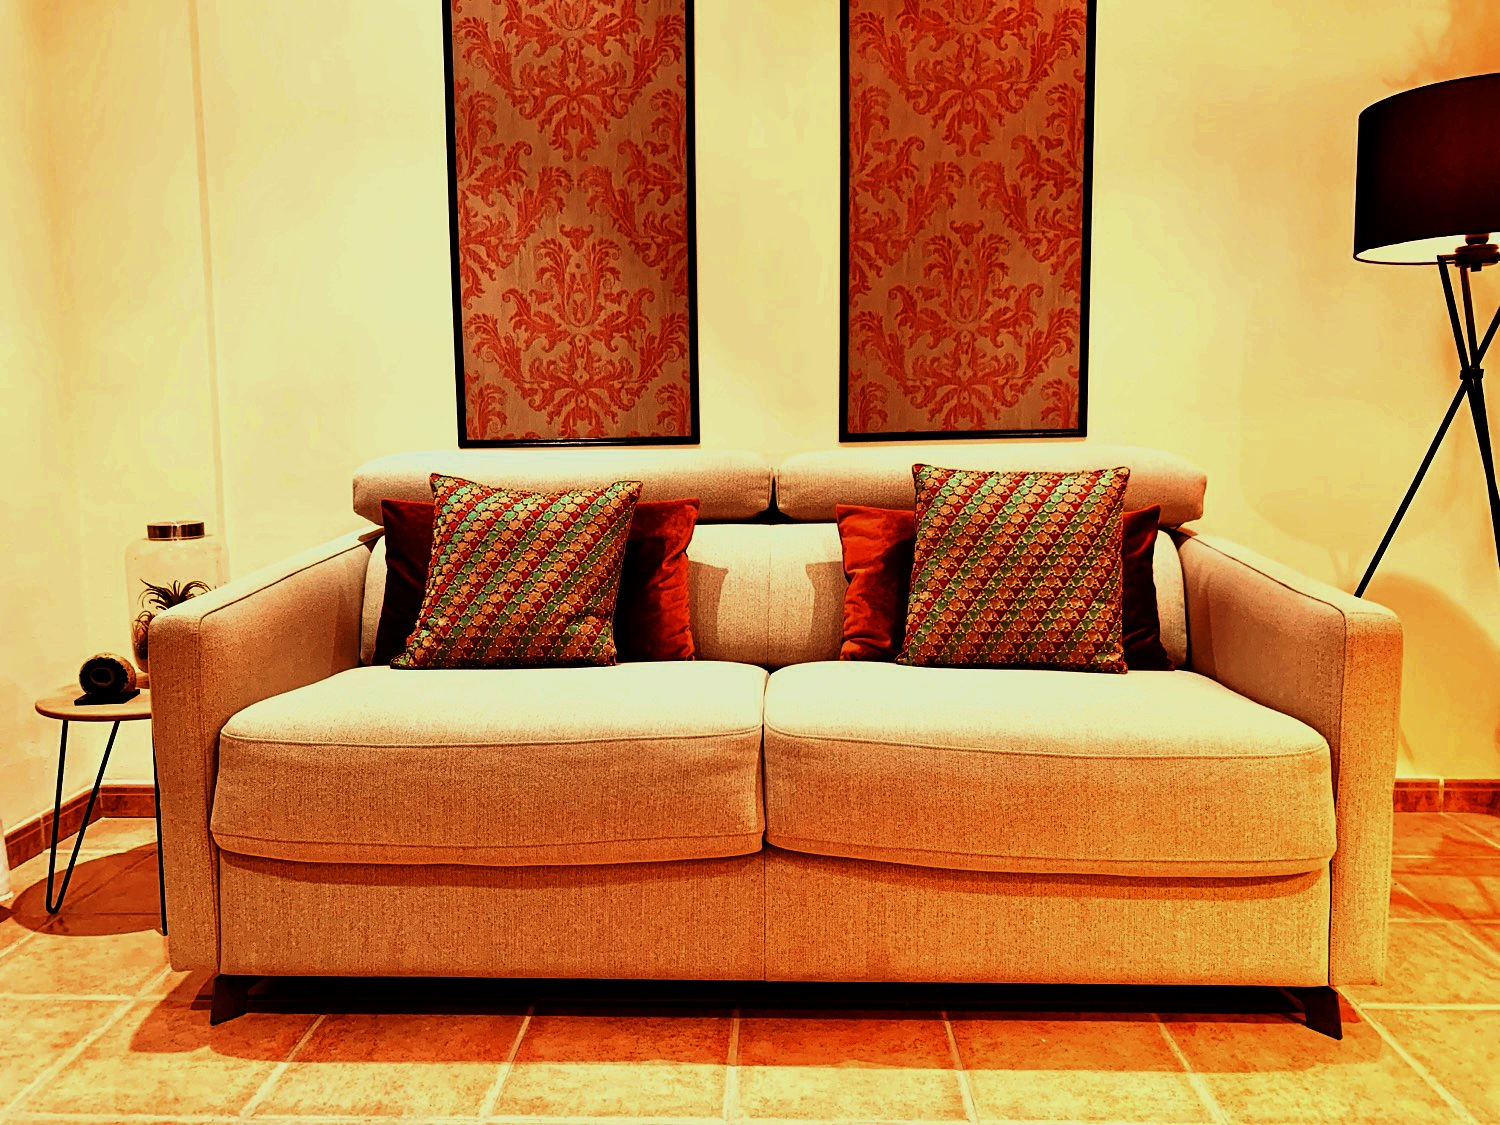
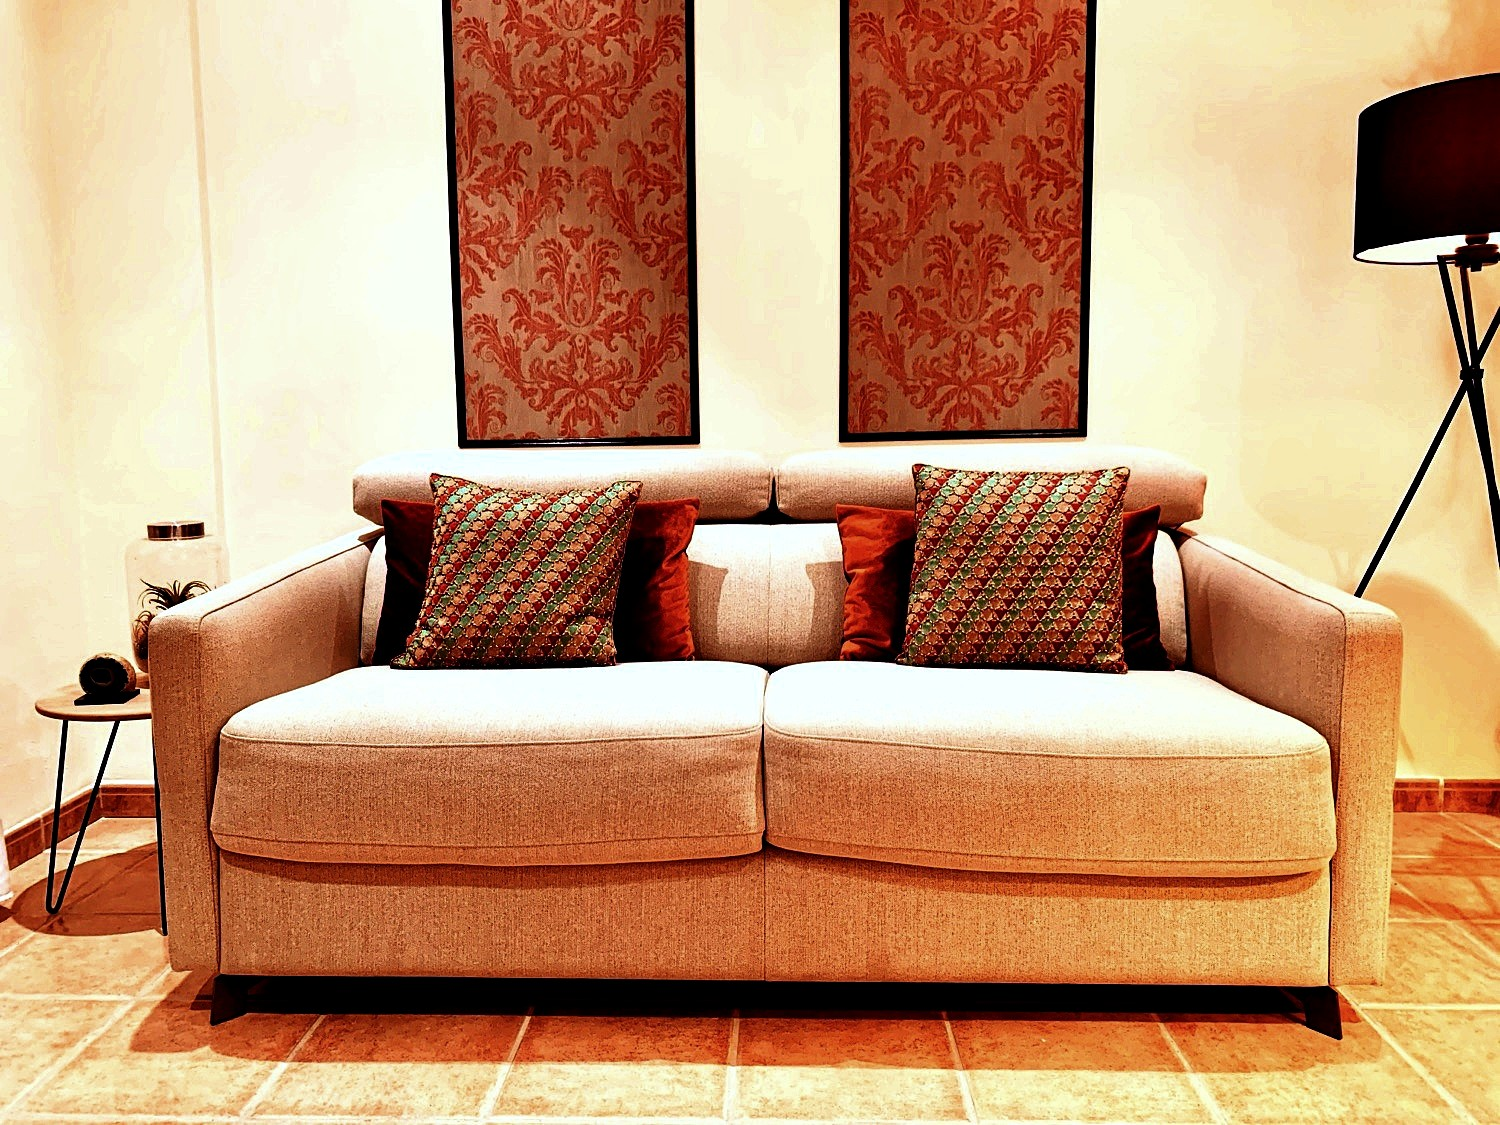
fix(thalassa): corrección de color de las 16 fotos del gallery
15 de 16 fotos VT venían con cast cálido (naranja/amarillo) MUY fuerte
de filtros HDR aplicados originalmente. Especialmente la #10 (sofá),
la #12 (cabeceros granate), #5 (salón atardecer), #6 (comedor) y #8
(entrada) eran casi anaranjadas — la palma blanca del sofá salía amber.

Aplicado pipeline en Python/Pillow:
  · Corrección suave (14 fotos): R-6%, G-3%, B+12% + autocontrast +
    sharpen + saturation -8%
  · Corrección agresiva (5 peores: 5,6,8,10,12): white balance basado
    en los píxeles más brillantes (highlights → blanco neutro) + R-4%
    + B+5% + autocontrast + saturation -22% + sharpen

Ahora:
  · Paredes blancas/crema (no naranja)
  · Sofás en color real (beige neutro, no amber)
  · Skin tones de paredes empedradas correctos
  · Vistas exteriores con cielo azul real

Backup de originales en docs/assets/originals/ (14 archivos, 6MB) por
si quieres restaurar alguna.

Limitación: NO se ha hecho outpainting (extender bordes con IA) —
para eso hace falta Photoshop Generative Expand o servicio externo.
El encuadre y dimensiones originales se preservan.

WebP regenerado con calidad 85.
Cache v=315

https://claude.ai/code/session_01EB1Ht2VQwEZbgWsiJbC8PY

diff --git a/docs/nosotros.html b/docs/nosotros.html
@@ -34,7 +34,7 @@
   <link rel="preconnect" href="https://fonts.gstatic.com" crossorigin/>
   <link rel="dns-prefetch" href="//unpkg.com"/>
   <link href="https://fonts.googleapis.com/css2?family=Inter:wght@300;400;500;600;700&family=Playfair+Display:ital,opsz,wght@0,5..1200,400..900;1,5..1200,400..900&display=swap" rel="stylesheet"/>
-  <link rel="stylesheet" href="assets/styles.css?v=314"/>
+  <link rel="stylesheet" href="assets/styles.css?v=315"/>
   <link rel="preload" as="image" href="assets/photo-nosotros-hero.jpg" fetchpriority="high"/>
   <script type="application/ld+json">
   {

diff --git a/docs/index.html b/docs/index.html
@@ -35,7 +35,7 @@
   <link rel="preconnect" href="https://fonts.gstatic.com" crossorigin/>
   <link rel="dns-prefetch" href="//unpkg.com"/>
   <link href="https://fonts.googleapis.com/css2?family=Inter:wght@300;400;500;600;700&family=Playfair+Display:ital,opsz,wght@0,5..1200,400..900;1,5..1200,400..900&display=swap" rel="stylesheet"/>
-  <link rel="stylesheet" href="assets/styles.css?v=314"/>
+  <link rel="stylesheet" href="assets/styles.css?v=315"/>
   <link rel="preload" as="image" href="assets/hero-terrace-night.jpg" fetchpriority="high"/>
   <script type="application/ld+json">
   {

diff --git a/docs/thalassa.html b/docs/thalassa.html
@@ -34,7 +34,7 @@
   <link rel="preconnect" href="https://fonts.gstatic.com" crossorigin/>
   <link rel="dns-prefetch" href="//unpkg.com"/>
   <link href="https://fonts.googleapis.com/css2?family=Inter:wght@300;400;500;600;700&family=Playfair+Display:ital,opsz,wght@0,5..1200,400..900;1,5..1200,400..900&display=swap" rel="stylesheet"/>
-  <link rel="stylesheet" href="assets/styles.css?v=314"/>
+  <link rel="stylesheet" href="assets/styles.css?v=315"/>
   <link rel="preload" as="image" href="assets/apt-vt-4.jpg" fetchpriority="high"/>
   <script type="application/ld+json">
   {

diff --git a/docs/mar.html b/docs/mar.html
@@ -34,7 +34,7 @@
   <link rel="preconnect" href="https://fonts.gstatic.com" crossorigin/>
   <link rel="dns-prefetch" href="//unpkg.com"/>
   <link href="https://fonts.googleapis.com/css2?family=Inter:wght@300;400;500;600;700&family=Playfair+Display:ital,opsz,wght@0,5..1200,400..900;1,5..1200,400..900&display=swap" rel="stylesheet"/>
-  <link rel="stylesheet" href="assets/styles.css?v=314"/>
+  <link rel="stylesheet" href="assets/styles.css?v=315"/>
   <link rel="preload" as="image" href="assets/apt-vm.jpg" fetchpriority="high"/>
   <script type="application/ld+json">
   {

diff --git a/docs/salinas.html b/docs/salinas.html
@@ -34,7 +34,7 @@
   <link rel="preconnect" href="https://fonts.gstatic.com" crossorigin/>
   <link rel="dns-prefetch" href="//unpkg.com"/>
   <link href="https://fonts.googleapis.com/css2?family=Inter:wght@300;400;500;600;700&family=Playfair+Display:ital,opsz,wght@0,5..1200,400..900;1,5..1200,400..900&display=swap" rel="stylesheet"/>
-  <link rel="stylesheet" href="assets/styles.css?v=314"/>
+  <link rel="stylesheet" href="assets/styles.css?v=315"/>
   <link rel="preload" as="image" href="assets/apt-vs.jpg" fetchpriority="high"/>
   <script type="application/ld+json">
   {

diff --git a/docs/escribir-opinion.html b/docs/escribir-opinion.html
@@ -32,7 +32,7 @@
   <link rel="preconnect" href="https://fonts.gstatic.com" crossorigin/>
   <link rel="dns-prefetch" href="//unpkg.com"/>
   <link href="https://fonts.googleapis.com/css2?family=Inter:wght@300;400;500;600;700&family=Playfair+Display:ital,opsz,wght@0,5..1200,400..900;1,5..1200,400..900&display=swap" rel="stylesheet"/>
-  <link rel="stylesheet" href="assets/styles.css?v=314"/>
+  <link rel="stylesheet" href="assets/styles.css?v=315"/>
 </head>
 <body>
 <a href="#root" class="skip-link">Saltar al contenido principal</a>

diff --git a/docs/noticias.html b/docs/noticias.html
@@ -34,7 +34,7 @@
   <link rel="preconnect" href="https://fonts.gstatic.com" crossorigin/>
   <link rel="dns-prefetch" href="//unpkg.com"/>
   <link href="https://fonts.googleapis.com/css2?family=Inter:wght@300;400;500;600;700&family=Playfair+Display:ital,opsz,wght@0,5..1200,400..900;1,5..1200,400..900&display=swap" rel="stylesheet"/>
-  <link rel="stylesheet" href="assets/styles.css?v=314"/>
+  <link rel="stylesheet" href="assets/styles.css?v=315"/>
   <script type="application/ld+json">
   {
     "@context": "https://schema.org",

diff --git a/docs/contacto.html b/docs/contacto.html
@@ -34,7 +34,7 @@
   <link rel="preconnect" href="https://fonts.gstatic.com" crossorigin/>
   <link rel="dns-prefetch" href="//unpkg.com"/>
   <link href="https://fonts.googleapis.com/css2?family=Inter:wght@300;400;500;600;700&family=Playfair+Display:ital,opsz,wght@0,5..1200,400..900;1,5..1200,400..900&display=swap" rel="stylesheet"/>
-  <link rel="stylesheet" href="assets/styles.css?v=314"/>
+  <link rel="stylesheet" href="assets/styles.css?v=315"/>
   <script type="application/ld+json">
   {
   "@context": "https://schema.org",

diff --git a/docs/opiniones.html b/docs/opiniones.html
@@ -34,7 +34,7 @@
   <link rel="preconnect" href="https://fonts.gstatic.com" crossorigin/>
   <link rel="dns-prefetch" href="//unpkg.com"/>
   <link href="https://fonts.googleapis.com/css2?family=Inter:wght@300;400;500;600;700&family=Playfair+Display:ital,opsz,wght@0,5..1200,400..900;1,5..1200,400..900&display=swap" rel="stylesheet"/>
-  <link rel="stylesheet" href="assets/styles.css?v=314"/>
+  <link rel="stylesheet" href="assets/styles.css?v=315"/>
   <script type="application/ld+json">
   {
   "@context": "https://schema.org",

diff --git a/docs/porque-hestia.html b/docs/porque-hestia.html
@@ -34,7 +34,7 @@
   <link rel="preconnect" href="https://fonts.gstatic.com" crossorigin/>
   <link rel="dns-prefetch" href="//unpkg.com"/>
   <link href="https://fonts.googleapis.com/css2?family=Inter:wght@300;400;500;600;700&family=Playfair+Display:ital,opsz,wght@0,5..1200,400..900;1,5..1200,400..900&display=swap" rel="stylesheet"/>
-  <link rel="stylesheet" href="assets/styles.css?v=314"/>
+  <link rel="stylesheet" href="assets/styles.css?v=315"/>
   <script type="application/ld+json">
   {
   "@context": "https://schema.org",

diff --git a/docs/reservas.html b/docs/reservas.html
@@ -34,7 +34,7 @@
   <link rel="preconnect" href="https://fonts.gstatic.com" crossorigin/>
   <link rel="dns-prefetch" href="//unpkg.com"/>
   <link href="https://fonts.googleapis.com/css2?family=Inter:wght@300;400;500;600;700&family=Playfair+Display:ital,opsz,wght@0,5..1200,400..900;1,5..1200,400..900&display=swap" rel="stylesheet"/>
-  <link rel="stylesheet" href="assets/styles.css?v=314"/>
+  <link rel="stylesheet" href="assets/styles.css?v=315"/>
   <script type="application/ld+json">
   {
   "@context": "https://schema.org",

diff --git a/docs/p-edit.html b/docs/p-edit.html
@@ -13,7 +13,7 @@
   <link rel="preconnect" href="https://fonts.gstatic.com" crossorigin/>
   <link rel="dns-prefetch" href="//unpkg.com"/>
   <link href="https://fonts.googleapis.com/css2?family=Inter:wght@300;400;500;600;700&family=Playfair+Display:ital,opsz,wght@0,5..1200,400..900;1,5..1200,400..900&display=swap" rel="stylesheet"/>
-  <link rel="stylesheet" href="assets/styles.css?v=314"/>
+  <link rel="stylesheet" href="assets/styles.css?v=315"/>
 </head>
 <body class="pe-body">
 <div id="root"></div>
